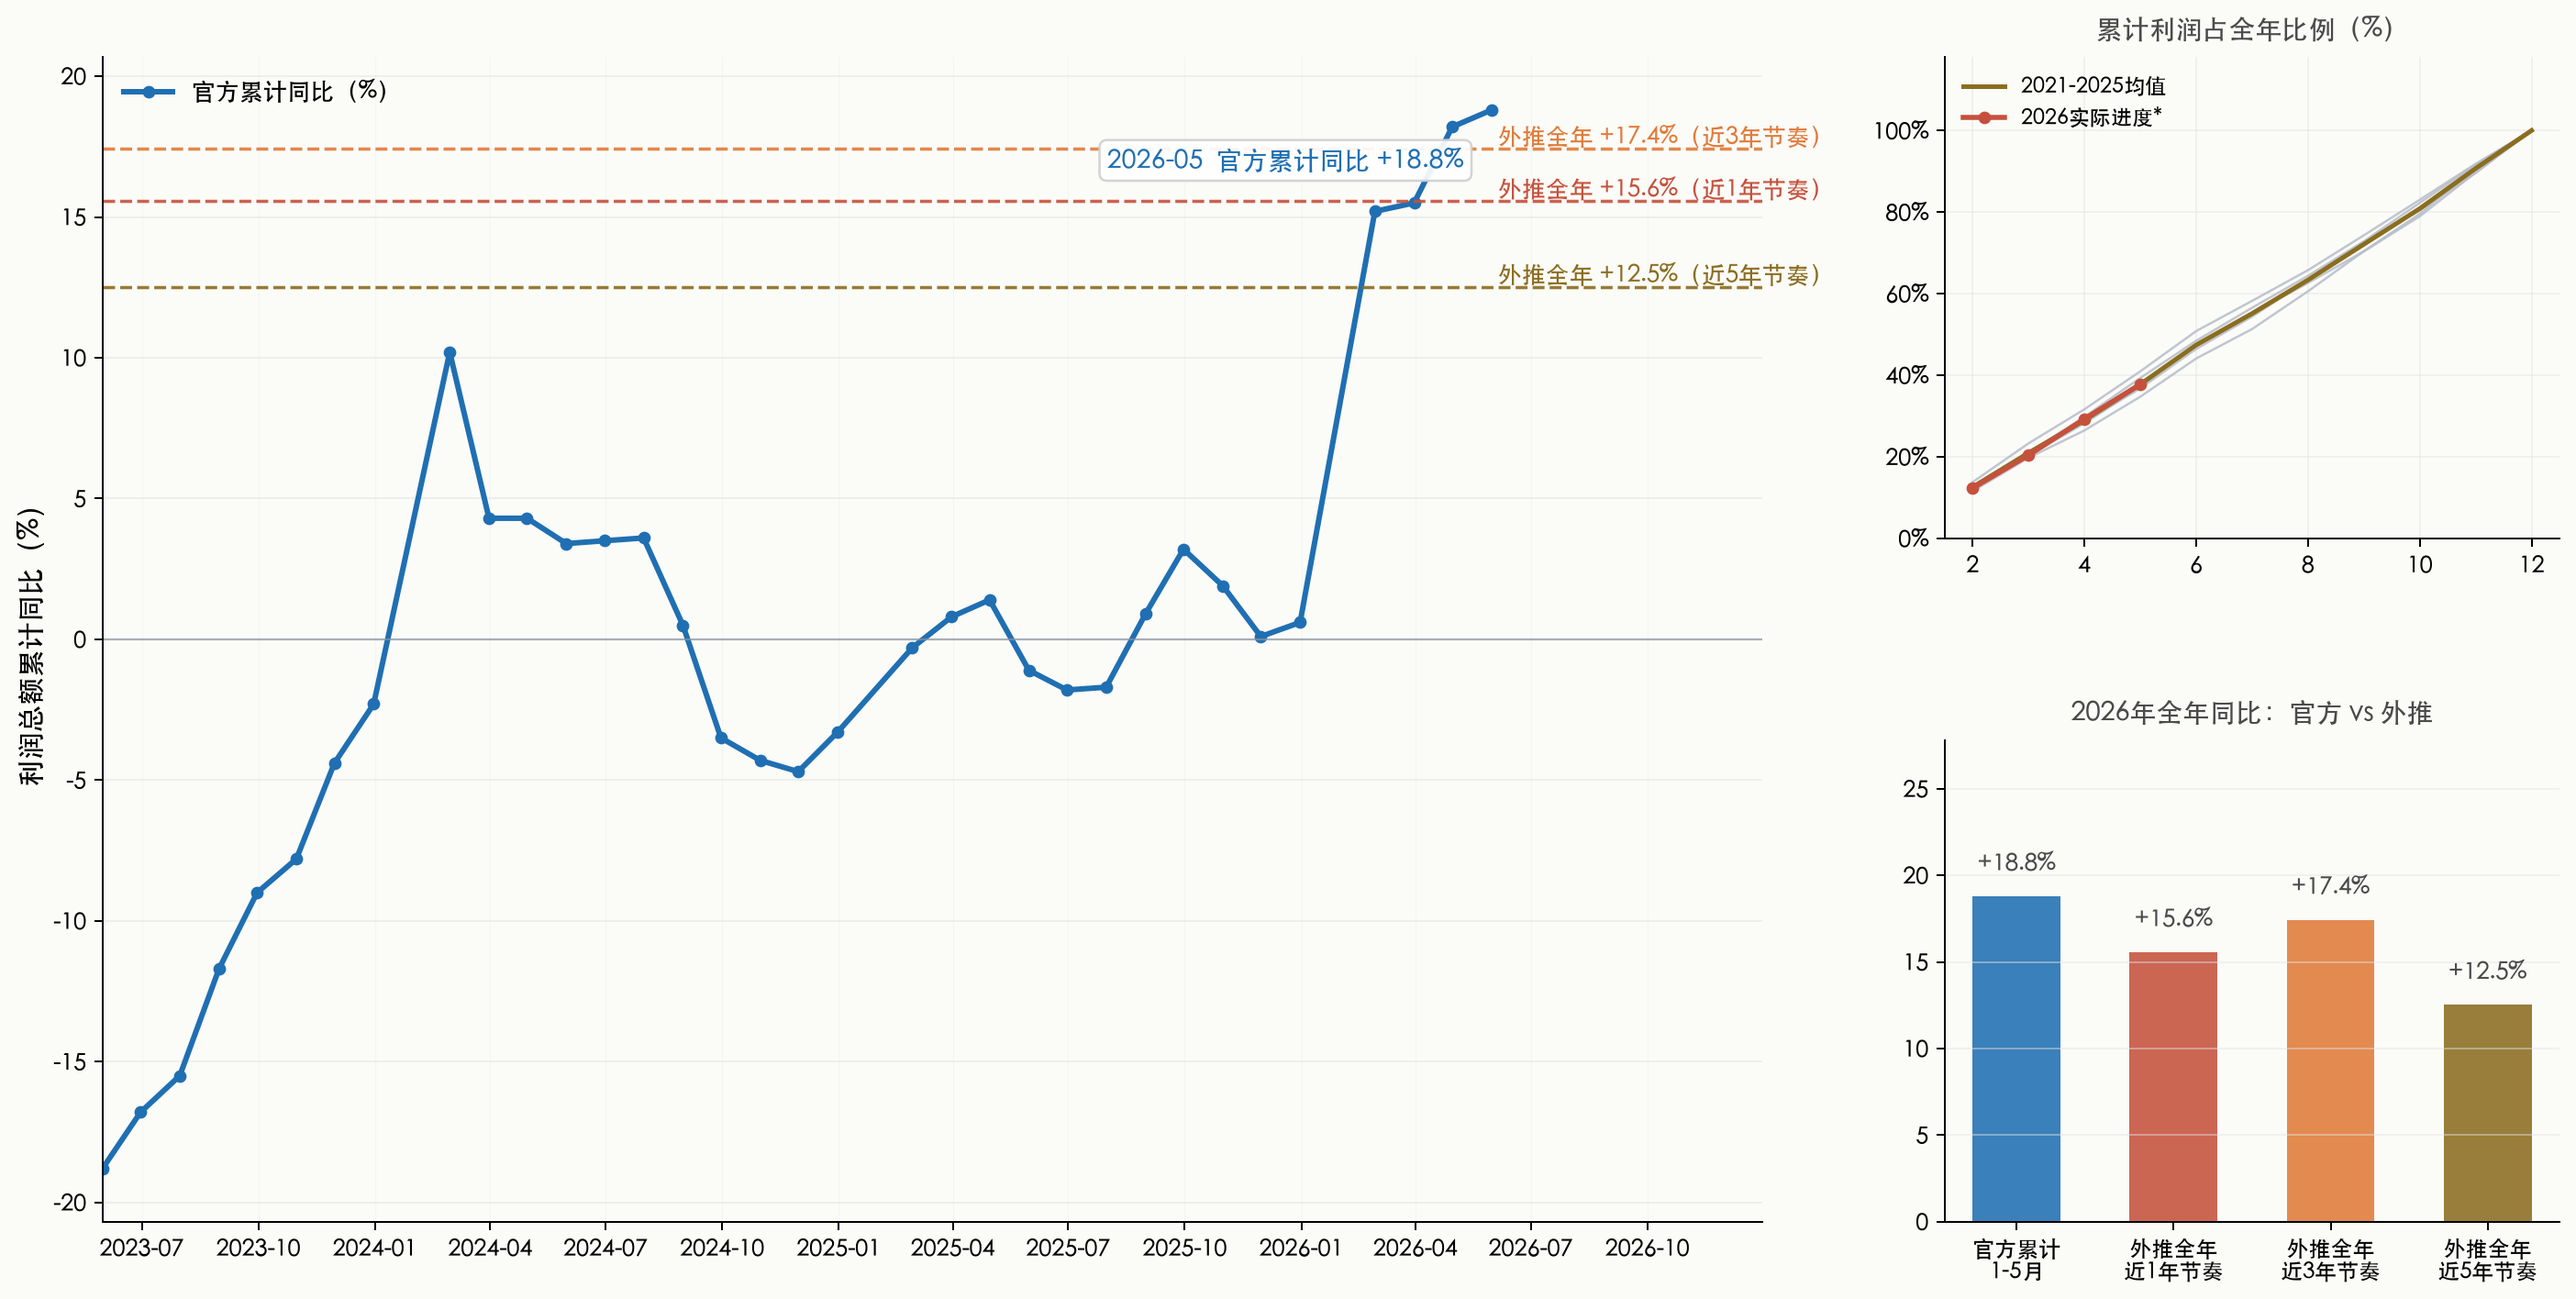
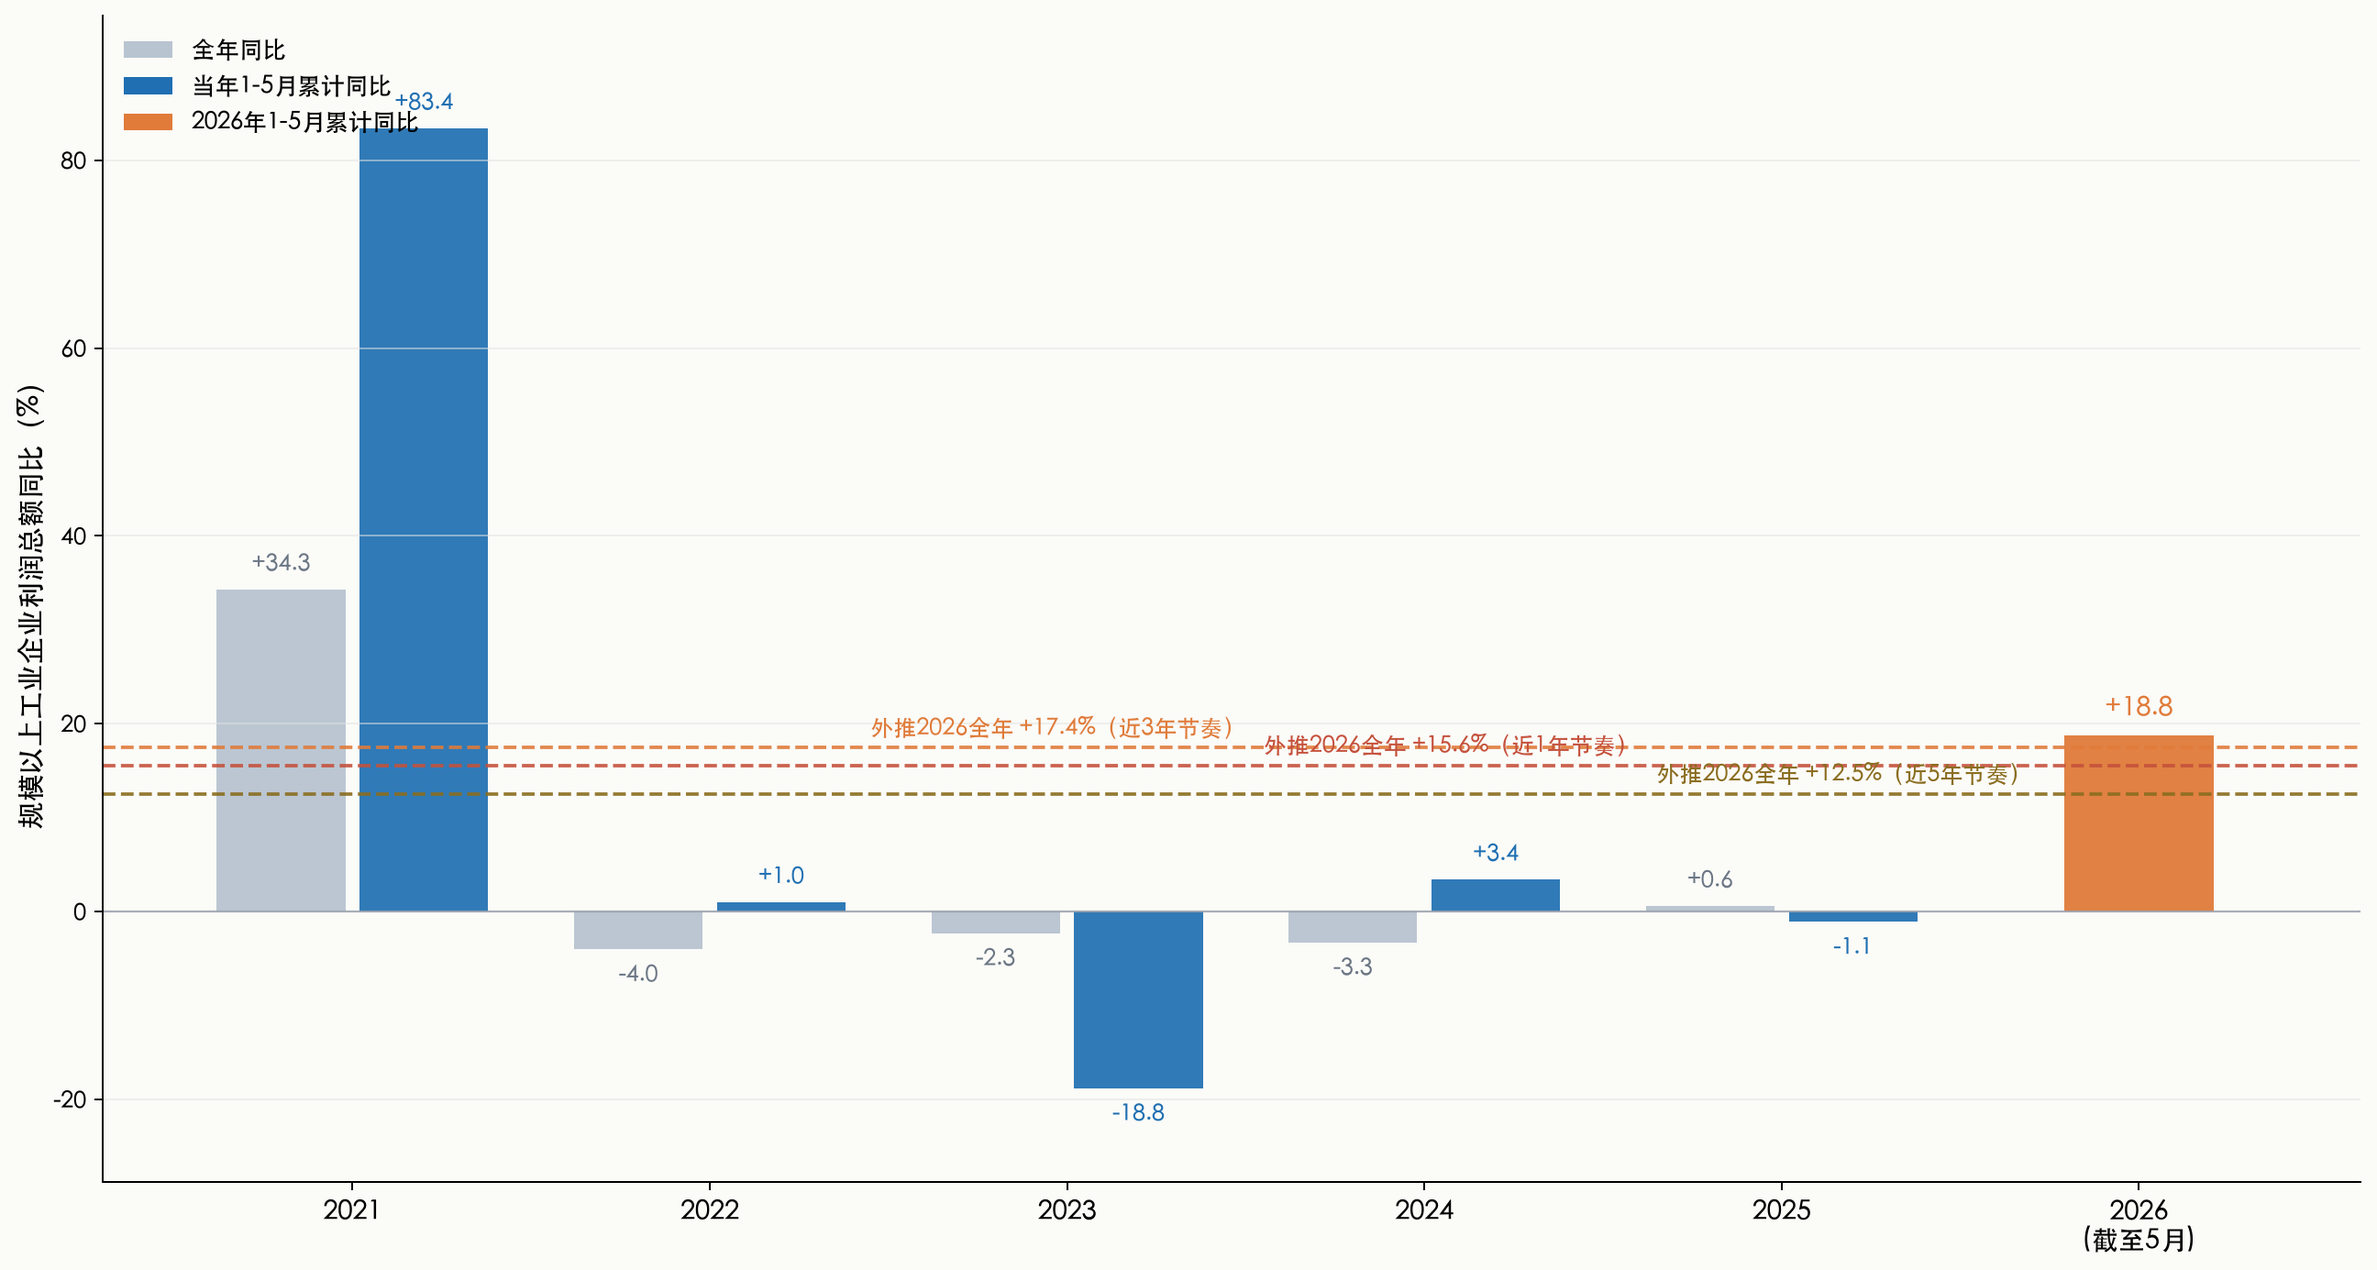
redesign industrial profits chart: grouped bars (5y full-year vs YTD YoY) + dashed projection lines

diff --git a/index.html b/index.html
@@ -112,7 +112,7 @@
         <h2><span class="chart-num">009</span>工业企业利润同比与全年外推（截至2026-05）<span class="freq-badge">月频</span></h2>
         <img src="assets/charts/fig_013_industrial_profits.png?v=202605" alt="工业企业利润同比与全年外推">
         <div class="chart-notes">
-          <p><strong>数据说明：</strong>指标为规模以上工业企业利润总额(国家统计局,每月27日左右发布上月数据)。外推方法:以过去1年/3年/5年同期(1-5月)累计利润占全年比例的均值,线性外推2026年全年利润总额,再与上年全年实际利润比较得到隐含全年同比;当前外推结果——近1年节奏 +15.6%、近3年 +17.4%、近5年 +12.5%。季节性进度图中2026年曲线以近5年节奏外推的全年利润为分母。</p>
+          <p><strong>数据说明：</strong>指标为规模以上工业企业利润总额(国家统计局,每月27日左右发布上月数据)。柱状图对比过去5年全年同比与当年同期(1-5月)累计同比,橙色柱为2026年同期实际值。外推方法:以过去1年/3年/5年同期累计利润占全年比例的均值,线性外推2026年全年利润总额,再与上年全年实际利润比较得到隐含全年同比,图中以虚线表示——近1年节奏 +15.6%、近3年 +17.4%、近5年 +12.5%。</p>
           <p><strong>风险提示：</strong>统计局对规模以上企业样本与基数有年度调整,官方同比与按累计额直接计算的同比存在口径差;外推基于季节性进度假设,下半年盈利节奏变化会使实际值偏离外推值,仅供参考。</p>
         </div>
       </section>

diff --git a/site/index.html b/site/index.html
@@ -112,7 +112,7 @@
         <h2><span class="chart-num">009</span>工业企业利润同比与全年外推（截至2026-05）<span class="freq-badge">月频</span></h2>
         <img src="assets/charts/fig_013_industrial_profits.png?v=202605" alt="工业企业利润同比与全年外推">
         <div class="chart-notes">
-          <p><strong>数据说明：</strong>指标为规模以上工业企业利润总额(国家统计局,每月27日左右发布上月数据)。外推方法:以过去1年/3年/5年同期(1-5月)累计利润占全年比例的均值,线性外推2026年全年利润总额,再与上年全年实际利润比较得到隐含全年同比;当前外推结果——近1年节奏 +15.6%、近3年 +17.4%、近5年 +12.5%。季节性进度图中2026年曲线以近5年节奏外推的全年利润为分母。</p>
+          <p><strong>数据说明：</strong>指标为规模以上工业企业利润总额(国家统计局,每月27日左右发布上月数据)。柱状图对比过去5年全年同比与当年同期(1-5月)累计同比,橙色柱为2026年同期实际值。外推方法:以过去1年/3年/5年同期累计利润占全年比例的均值,线性外推2026年全年利润总额,再与上年全年实际利润比较得到隐含全年同比,图中以虚线表示——近1年节奏 +15.6%、近3年 +17.4%、近5年 +12.5%。</p>
           <p><strong>风险提示：</strong>统计局对规模以上企业样本与基数有年度调整,官方同比与按累计额直接计算的同比存在口径差;外推基于季节性进度假设,下半年盈利节奏变化会使实际值偏离外推值,仅供参考。</p>
         </div>
       </section>

diff --git a/scripts/build_site_from_processed.py b/scripts/build_site_from_processed.py
@@ -613,93 +613,74 @@ def draw_industrial_profits_chart(df: pd.DataFrame | None, out_path: Path) -> di
     if not projections:
         return None
 
-    fig = plt.figure(figsize=(16, 8.2), dpi=180)
-    gs = fig.add_gridspec(2, 2, width_ratios=[2.7, 1.0], height_ratios=[1.0, 1.0],
-                          wspace=0.16, hspace=0.42, left=0.055, right=0.985, top=0.94, bottom=0.08)
+    fig, ax = plt.subplots(figsize=(14.5, 7.8), dpi=180)
     fig.patch.set_facecolor("#fbfbf8")
+    ax.set_facecolor("#fbfbf8")
 
-    # 左: 官方累计同比走势(近36个月) + 外推全年同比虚线
-    ax1 = fig.add_subplot(gs[:, 0])
-    ax1.set_facecolor("#fbfbf8")
-    trend = data[data["date"].ge(data["date"].max() - pd.DateOffset(months=36))].dropna(subset=["cum_yoy"])
-    ax1.plot(trend["date"], trend["cum_yoy"], color="#1f6fb2", linewidth=2.4,
-             marker="o", markersize=4.5, label="官方累计同比（%）")
-    ax1.axhline(0, color="#8a93a1", linewidth=0.9, alpha=0.7)
+    # 柱状图: 过去5年全年同比 vs 当年同期(1-cm月)累计同比 + 今年同期实际值, 外推全年用虚线
+    years = [y for y in range(cy - 5, cy)]
+    yoy_dec: dict[int, float] = {}
+    ytd_yoy: dict[int, float] = {}
+    for y in years + [cy]:
+        dec = data[(data["year"].eq(y)) & (data["month"].eq(12))]["cum_yoy"]
+        if y != cy and not dec.empty and pd.notna(dec.iloc[0]):
+            yoy_dec[y] = float(dec.iloc[0])
+        ytd = data[(data["year"].eq(y)) & (data["month"].eq(cm))]["cum_yoy"]
+        if not ytd.empty and pd.notna(ytd.iloc[0]):
+            ytd_yoy[y] = float(ytd.iloc[0])
+    latest_yoy = ytd_yoy.get(cy, float("nan"))
+
+    width = 0.36
+    xs = list(range(len(years)))
+    color_full, color_ytd, color_cur = "#b8c4d0", "#1f6fb2", "#e07b39"
+    for i, y in enumerate(years):
+        if y in yoy_dec:
+            ax.bar(i - width / 2 - 0.02, yoy_dec[y], width, color=color_full, alpha=0.95)
+            ax.text(i - width / 2 - 0.02, yoy_dec[y] + (1.5 if yoy_dec[y] >= 0 else -1.5),
+                    f"{yoy_dec[y]:+.1f}", ha="center", va="bottom" if yoy_dec[y] >= 0 else "top",
+                    fontsize=10, color="#6b7684")
+        if y in ytd_yoy:
+            ax.bar(i + width / 2 + 0.02, ytd_yoy[y], width, color=color_ytd, alpha=0.92)
+            ax.text(i + width / 2 + 0.02, ytd_yoy[y] + (1.5 if ytd_yoy[y] >= 0 else -1.5),
+                    f"{ytd_yoy[y]:+.1f}", ha="center", va="bottom" if ytd_yoy[y] >= 0 else "top",
+                    fontsize=10, color=color_ytd)
+    cur_x = len(years)
+    if cy in ytd_yoy:
+        ax.bar(cur_x, ytd_yoy[cy], width + 0.06, color=color_cur, alpha=0.95)
+        ax.text(cur_x, ytd_yoy[cy] + (1.5 if ytd_yoy[cy] >= 0 else -1.5),
+                f"{ytd_yoy[cy]:+.1f}", ha="center", va="bottom" if ytd_yoy[cy] >= 0 else "top",
+                fontsize=11.5, fontweight="bold", color=color_cur)
+
     proj_colors = {"近1年": "#c5513c", "近3年": "#e07b39", "近5年": "#8a6d1f"}
+    label_xs = {"近3年": 1.45, "近1年": 2.55, "近5年": 3.65}
     for label, value in projections.items():
         color = proj_colors[label]
-        ax1.axhline(value, linestyle="--", color=color, linewidth=1.4, alpha=0.9)
-        ax1.text(trend["date"].max(), value, f" 外推全年 {value:+.1f}%（{label}节奏）",
-                 color=color, fontsize=10.5, va="bottom" if value >= 0 else "top")
-    latest_yoy = float(latest["cum_yoy"]) if pd.notna(latest["cum_yoy"]) else float("nan")
-    ax1.annotate(
-        f"{latest_date}  官方累计同比 {latest_yoy:+.1f}%",
-        xy=(latest["date"], latest_yoy), xytext=(-12, -26), textcoords="offset points",
-        ha="right", fontsize=11, color="#1f6fb2",
-        bbox={"boxstyle": "round,pad=0.3", "facecolor": "#ffffff", "edgecolor": "#d0d0d0", "alpha": 0.92},
+        ax.axhline(value, linestyle="--", color=color, linewidth=1.5, alpha=0.9)
+        ax.text(label_xs.get(label, 2.5), value + 0.9, f"外推{cy}全年 {value:+.1f}%（{label}节奏）",
+                color=color, fontsize=10, va="bottom", ha="left")
+
+    ax.axhline(0, color="#8a93a1", linewidth=0.9, alpha=0.7)
+    tick_labels = [str(y) for y in years] + [f"{cy}\n(截至{cm}月)"]
+    ax.set_xticks(xs + [cur_x])
+    ax.set_xticklabels(tick_labels, fontsize=11.5)
+    all_vals = list(yoy_dec.values()) + list(ytd_yoy.values()) + list(projections.values())
+    ax.set_ylim(min(0, min(all_vals) - 10), max(all_vals) + 12)
+    ax.set_xlim(-0.7, cur_x + 0.62)
+    ax.set_ylabel("规模以上工业企业利润总额同比（%）", fontsize=12)
+    ax.grid(axis="y", color="#e3e3e3", linewidth=0.7, alpha=0.6)
+    ax.spines[["top", "right"]].set_visible(False)
+
+    from matplotlib.patches import Patch
+    ax.legend(
+        handles=[
+            Patch(facecolor=color_full, label="全年同比"),
+            Patch(facecolor=color_ytd, label=f"当年1-{cm}月累计同比"),
+            Patch(facecolor=color_cur, label=f"{cy}年1-{cm}月累计同比"),
+        ],
+        loc="upper left", frameon=False, fontsize=10.5,
     )
-    ax1.set_ylabel("利润总额累计同比（%）", fontsize=12)
-    ax1.grid(axis="y", color="#e3e3e3", linewidth=0.7, alpha=0.6)
-    ax1.grid(axis="x", color="#eeeeee", linewidth=0.5, alpha=0.45)
-    ax1.xaxis.set_major_locator(mdates.MonthLocator(interval=3))
-    ax1.xaxis.set_major_formatter(mdates.DateFormatter("%Y-%m"))
-    ax1.set_xlim(trend["date"].min(), trend["date"].max() + pd.DateOffset(months=7))
-    ax1.legend(loc="upper left", frameon=False, fontsize=10.5)
-    ax1.spines[["top", "right"]].set_visible(False)
 
-    # 右上: 累计利润占全年比例的季节曲线
-    ax2 = fig.add_subplot(gs[0, 1])
-    ax2.set_facecolor("#fbfbf8")
-    hist_years = [y for y in range(cy - 5, cy) if y in full_year.index]
-    for y in hist_years:
-        sub = data[data["year"].eq(y)].sort_values("month")
-        share = sub["cum_value"] / float(full_year[y]) * 100
-        ax2.plot(sub["month"], share, color="#b6bdc9", linewidth=1.0, alpha=0.85)
-    if hist_years:
-        months = sorted(data[data["year"].eq(hist_years[-1])]["month"])
-        mean_share = []
-        for m in months:
-            vals = []
-            for y in hist_years:
-                cum_m = data[(data["year"].eq(y)) & (data["month"].eq(m))]["cum_value"]
-                if not cum_m.empty:
-                    vals.append(float(cum_m.iloc[0]) / float(full_year[y]) * 100)
-            mean_share.append(sum(vals) / len(vals) if vals else float("nan"))
-        ax2.plot(months, mean_share, color="#8a6d1f", linewidth=2.0, label=f"{cy - 5}-{cy - 1}均值")
-    cur = data[data["year"].eq(cy)].sort_values("month")
-    cur_share = []
-    for m in cur["month"]:
-        est_full_5y = float(latest["cum_value"]) / (sum(share_by_year.values()) / len(share_by_year))
-        cum_m = cur[cur["month"].eq(m)]["cum_value"].iloc[0]
-        cur_share.append(float(cum_m) / est_full_5y * 100)
-    ax2.plot(cur["month"], cur_share, color="#c5513c", linewidth=2.2, marker="o", markersize=4.5, label=f"{cy}实际进度*")
-    ax2.set_xlim(1.5, 12.5)
-    ax2.set_ylim(0, 118)
-    ax2.set_xticks([2, 4, 6, 8, 10, 12])
-    ax2.yaxis.set_major_formatter(FuncFormatter(pct_formatter))
-    ax2.set_title("累计利润占全年比例（%）", fontsize=11.5, color="#4a4a4a", pad=8)
-    ax2.grid(color="#e3e3e3", linewidth=0.6, alpha=0.6)
-    ax2.legend(loc="upper left", frameon=False, fontsize=9)
-    ax2.spines[["top", "right"]].set_visible(False)
-
-    # 右下: 官方累计同比 vs 三个外推值
-    ax3 = fig.add_subplot(gs[1, 1])
-    ax3.set_facecolor("#fbfbf8")
-    bar_labels = [f"官方累计\n1-{cm}月"] + [f"外推全年\n{k}节奏" for k in projections]
-    bar_values = [latest_yoy] + list(projections.values())
-    bar_colors = ["#1f6fb2"] + [proj_colors[k] for k in projections]
-    bars = ax3.bar(range(len(bar_values)), bar_values, width=0.56, color=bar_colors, alpha=0.88)
-    for rect, v in zip(bars, bar_values):
-        ax3.text(rect.get_x() + rect.get_width() / 2, v + (1.2 if v >= 0 else -1.2),
-                 f"{v:+.1f}%", ha="center", va="bottom" if v >= 0 else "top", fontsize=10.5, color="#4a4a4a")
-    ax3.axhline(0, color="#8a93a1", linewidth=0.9, alpha=0.7)
-    ax3.set_xticks(range(len(bar_labels)))
-    ax3.set_xticklabels(bar_labels, fontsize=9.5)
-    ax3.set_ylim(min(0, min(bar_values) - 8), max(bar_values) + 9)
-    ax3.set_title(f"{cy}年全年同比：官方 vs 外推", fontsize=11.5, color="#4a4a4a", pad=8)
-    ax3.grid(axis="y", color="#e3e3e3", linewidth=0.6, alpha=0.6)
-    ax3.spines[["top", "right"]].set_visible(False)
-
+    fig.tight_layout()
     fig.savefig(out_path, bbox_inches="tight")
     plt.close(fig)
     return {
@@ -1098,7 +1079,7 @@ def build_page(
         <h2><span class="chart-num">009</span>工业企业利润同比与全年外推（截至{ipc["last_date"]}）{freq_badge("月频")}</h2>
         <img src="assets/charts/{Path(ipc["path"]).name}?v={ipc["last_date"].replace("-", "")}" alt="工业企业利润同比与全年外推">
         {chart_note_block(
-            f"指标为规模以上工业企业利润总额(国家统计局,每月27日左右发布上月数据)。外推方法:以过去1年/3年/5年同期(1-{ipc['current_month']}月)累计利润占全年比例的均值,线性外推{ipc['current_year']}年全年利润总额,再与上年全年实际利润比较得到隐含全年同比;当前外推结果——近1年节奏 {ipc['proj_1y']:+.1f}%、近3年 {ipc['proj_3y']:+.1f}%、近5年 {ipc['proj_5y']:+.1f}%。季节性进度图中{ipc['current_year']}年曲线以近5年节奏外推的全年利润为分母。",
+            f"指标为规模以上工业企业利润总额(国家统计局,每月27日左右发布上月数据)。柱状图对比过去5年全年同比与当年同期(1-{ipc['current_month']}月)累计同比,橙色柱为{ipc['current_year']}年同期实际值。外推方法:以过去1年/3年/5年同期累计利润占全年比例的均值,线性外推{ipc['current_year']}年全年利润总额,再与上年全年实际利润比较得到隐含全年同比,图中以虚线表示——近1年节奏 {ipc['proj_1y']:+.1f}%、近3年 {ipc['proj_3y']:+.1f}%、近5年 {ipc['proj_5y']:+.1f}%。",
             "统计局对规模以上企业样本与基数有年度调整,官方同比与按累计额直接计算的同比存在口径差;外推基于季节性进度假设,下半年盈利节奏变化会使实际值偏离外推值,仅供参考。",
         )}
       </section>'''
